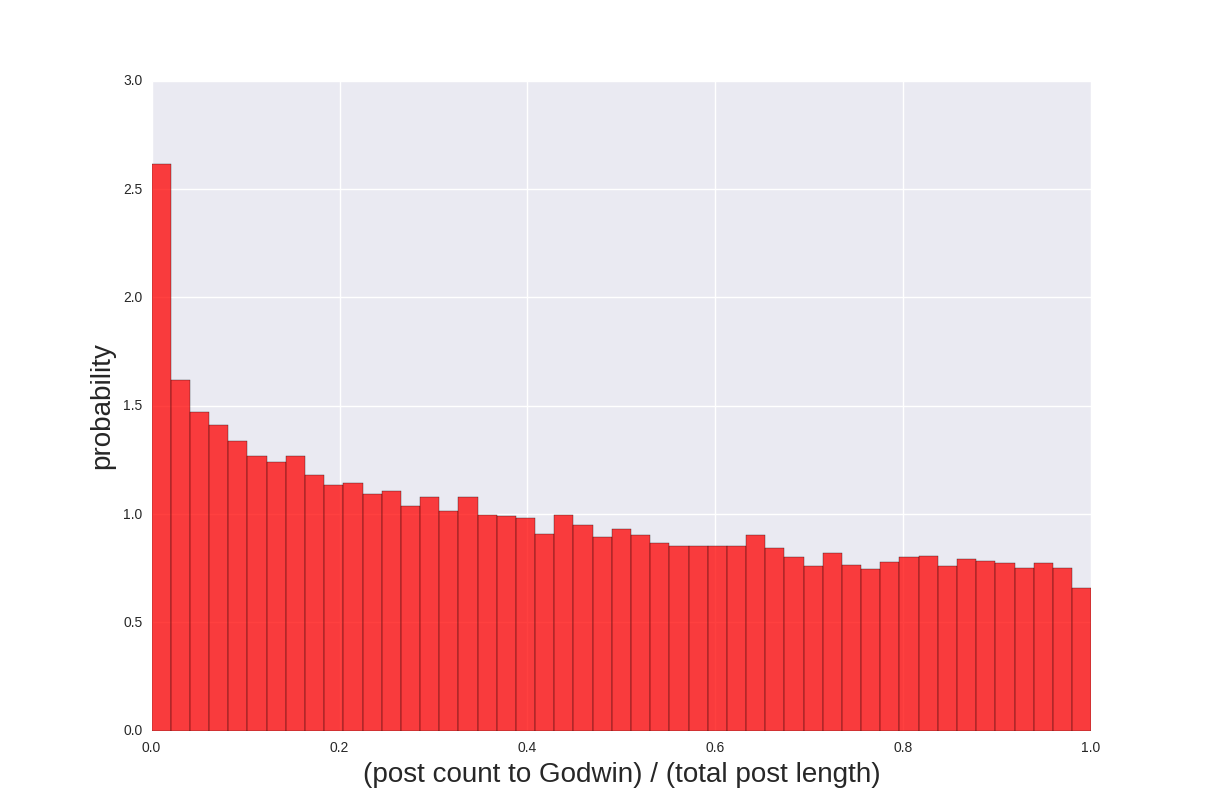
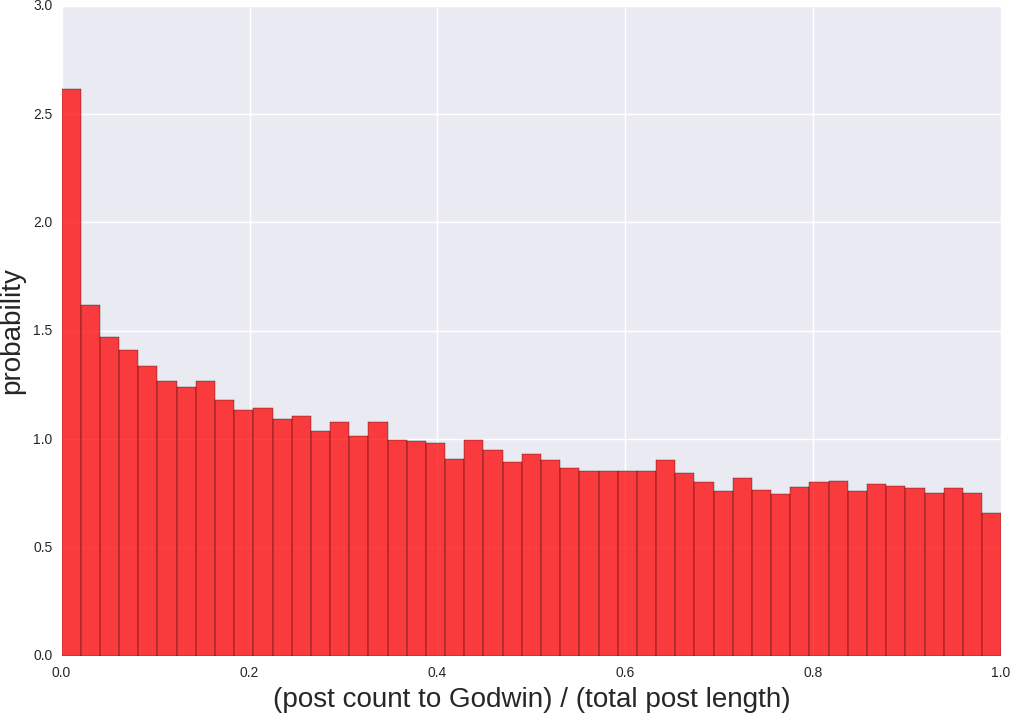
Added content and images.

diff --git a/index.html b/index.html
@@ -44,7 +44,7 @@
 <h1>Godwin's Law</h1><em>(on comments, Nazis, and internet civility)</em></p>
 <br>
 <p>
-<h2><strong><a href="http://thoppe.github.io/">Travis Hoppe</a></strong></h2></p>
+<h3><strong><a href="http://thoppe.github.io/">Travis Hoppe</a></strong></h3></p>
 <br>
 <hr>
 <br>
@@ -54,27 +54,10 @@ permalink <a href="http://thoppe.github.io/godwins_law/#/">thoppe.github.io/godw
 </section><section class="vertical-stack">
 <section   class="vertical-slide">
 <p>
-<h3>Godwin's Law</h3>An <a href="https://en.wikipedia.org/wiki/Eponym">eponymous</a> law that states:</p>
-<br>
+<h3>Godwin's Law (weak form)</h3></p>
 <blockquote>As an online discussion grows longer, the probability of a comparison involving Nazis or Hitler approaches 1</blockquote>
-<br>
 <p>
-No empirical studies to date! Let's test it!</p>
-</section><section   class="vertical-slide">
-<p>
-<h2>Godwin's Law</h2></p>
-<br>
-<p>
-<h4>Weak form</h4></p>
-<br>
-<p>
-As an online discussion grows longer, the probability of a<br>comparison involving Nazis or Hitler approaches 1.</p>
-<br>
-<p>
-<h4>Strong form</h4></p>
-<br>
-<p>
-As an online discussion grows longer, the probability of a<br>comparison involving Nazis or Hitler approaches 1<br><strong>when not talking about the events of WWII</strong>.</p>
+No empirical studies to date! Let's test it!<div class="fragment"><br><br><br><h3>Godwin's Law (strong form)</h3>As an online discussion grows longer, the probability of a<br>comparison involving Nazis or Hitler approaches 1<br><strong>when not talking about the events of WWII</strong>.<br></div></p>
 </section><section   class="vertical-slide">
 <p>
 <h4>Why is this important? (aka the Greater Internet Fuckwad Theory)</h4>Premise: Conversation is a good thing, but ...</p>
@@ -92,48 +75,67 @@ Any conversation is effectively over once someone makes a<br>comparison to one o
 Godwin's hypothesis is the implicit assumption that conversation<br>is over once the atrocities of the third Reich are invoked.</p>
 </section><section   class="vertical-slide">
 <p>
-<em>20 second digression</em>....</p>
+<em>...20 second digression on <a href="https://en.wikipedia.org/wiki/Eponym">eponymous</a> laws</em>....</p>
 <br>
 <p>
-the <a href="https://en.wikipedia.org/wiki/List_of_eponymous_laws">Wikipedia page of eponymous laws</a>...<br><em>how cool is this!?</em></p>
-<br>
+<a href="https://en.wikipedia.org/wiki/List_of_eponymous_laws">Wikipedia page of eponymous laws</a>...</p>
 <figure>
     <a href="images/wiki_ep.png">
     <img class="" src="images/wiki_ep.png" >
     </a>
     
     </figure>
+<p>
+<em>how cool is this!?</em></p>
 </section>
 </section><section class="vertical-stack">
 <section   class="vertical-slide">
 <p>
-<h3>Dataset</h3></p>
-<br>
+<h3>Dataset</h3>Recently, <code>u/stuck_in_the_matrix</code> <a href="(https://www.reddit.com/r/datasets/comments/3bxlg7/i_have_every_publicly_available_reddit_comment">downloaded _every comment_ from Reddit</a> over<br>9 months, 100 GB compressed, and about 1 TB uncompressed raw json blobs.</p>
+<ul><li>105,925,637 submissions (posts)</li>
+<li>971,555,203 comments</li>
+<li>189,283 invokations of Godwin's law</li>
+<li>69,912 when considering conversations of length > 50</li></ul>
 <p>
-A few months ago, <code>u/stuck_in_the_matrix</code> download <em>every comment</em> from Reddit. It took about 9 months 100 GB compressed and about 1 TB uncompressed raw json blobs.</p>
-<br>
+<div class="fragment"></p>
+<figure>
+    <a href="images/reddit_post_length.png">
+    <img class="" src="images/reddit_post_length.png" width="800">
+    </a>
+    
+    </figure>
 <p>
-105,925,637 submissions (posts) and 971,555,203 comments.</p>
-<br>
-<p>
-189,283 invokations of Godwin's law, 69,912 when considering conversations of length > 100.</p>
+</div></p>
 </section><section   class="vertical-slide">
 <p>
-<h3>Methodology</h3></p>
+<h3>Methodology</h3>A Nazi by any other name...</p>
 <br>
-<p>
-A Nazi by any other name...</p>
-<br>
-<p>
-PICTURE OF Google sheet</p>
+<figure>
+    <a href="images/word_list.png">
+    <img class="" src="images/word_list.png" >
+    </a>
+    <figcaption>A Google Doc of pure evil</figcaption>
+    </figure>
 </section>
 </section><section class="vertical-stack">
 <section   class="vertical-slide">
 <p>
-<h3>Results!</h3></p>
-<br>
+<h3>TTG (time-to-Godwin)</h3>happens in the first few hours...</p>
+<figure>
+    <a href="images/time.png">
+    <img class="" src="images/time.png" width="900px">
+    </a>
+    <figcaption>all Godwin posts with >50 comments</figcaption>
+    </figure>
+</section><section   class="vertical-slide">
 <p>
-PICTURE</p>
+<h3>PTG (posts-to-Godwin)</h3>happens early comment order ... but comments continue!</p>
+<figure>
+    <a href="images/post.png">
+    <img class="" src="images/post.png" width="900px">
+    </a>
+    <figcaption>all Godwin posts with >50 comments</figcaption>
+    </figure>
 </section>
 </section><section class="vertical-stack">
 <section   class="vertical-slide">

diff --git a/godwin.md b/godwin.md
@@ -1,7 +1,7 @@
 # Godwin's Law
 _(on comments, Nazis, and internet civility)_
 
-## *[Travis Hoppe](http://thoppe.github.io/)*
+### *[Travis Hoppe](http://thoppe.github.io/)*
 
 ----------
 
@@ -9,24 +9,12 @@ permalink [thoppe.github.io/godwins_law/](http://thoppe.github.io/godwins_law/#/
 
 ====
 
-### Godwin's Law
-An [eponymous](https://en.wikipedia.org/wiki/Eponym) law that states:
-
+### Godwin's Law (weak form)
 > As an online discussion grows longer, the probability of a comparison involving Nazis or Hitler approaches 1
-
 No empirical studies to date! Let's test it!
-
-====*
-
-## Godwin's Law
-
-#### Weak form
-
-As an online discussion grows longer, the probability of a
-comparison involving Nazis or Hitler approaches 1.
-
-#### Strong form
-
+====+ 
+<br><br><br>
+### Godwin's Law (strong form)
 As an online discussion grows longer, the probability of a
 comparison involving Nazis or Hitler approaches 1
 *when not talking about the events of WWII*.
@@ -45,42 +33,39 @@ is over once the atrocities of the third Reich are invoked.
 
 ====*
 
-_20 second digression_....
+_...20 second digression on [eponymous](https://en.wikipedia.org/wiki/Eponym) laws_....
 
-the [Wikipedia page of eponymous laws](https://en.wikipedia.org/wiki/List_of_eponymous_laws)...
-_how cool is this!?_
-
+[Wikipedia page of eponymous laws](https://en.wikipedia.org/wiki/List_of_eponymous_laws)...
 !(images/wiki_ep.png)
-
+_how cool is this!?_
 
 ====
 
 ### Dataset
-
-A few months ago, `u/stuck_in_the_matrix` [download](https://www.reddit.com/r/datasets/comments/3bxlg7/i_have_every_publicly_available_reddit_comment/) _every comment_ from Reddit. It took about 9 months 100 GB compressed and about 1 TB uncompressed raw json blobs.
-
-105,925,637 submissions (posts) and 971,555,203 comments.
-
-189,283 invokations of Godwin's law, 69,912 when considering conversations of length > 50.
-
-
-
+Recently, `u/stuck_in_the_matrix` [downloaded _every comment_ from Reddit]((https://www.reddit.com/r/datasets/comments/3bxlg7/i_have_every_publicly_available_reddit_comment) over
+9 months, 100 GB compressed, and about 1 TB uncompressed raw json blobs.
++ 105,925,637 submissions (posts)
++ 971,555,203 comments
++ 189,283 invokations of Godwin's law
++ 69,912 when considering conversations of length > 50
+====+
+!(images/reddit_post_length.png)<<width:800;>>
 ====*
 
 ### Methodology
-
 A Nazi by any other name...
 
-PICTURE OF Google sheet
-
-
-=====
-
-### Results!
-
-PICTURE
+!(images/word_list.png) A Google Doc of pure evil
 
 =====
+### TTG (time-to-Godwin)
+happens in the first few hours...
+!(images/time.png)<<width:900px>> all Godwin posts with >50 comments
+=====*
+### PTG (posts-to-Godwin)
+happens early comment order ... but comments continue!
+!(images/post.png)<<width:900px>> all Godwin posts with >50 comments
+====
 
 ### Ongoing research!
 
